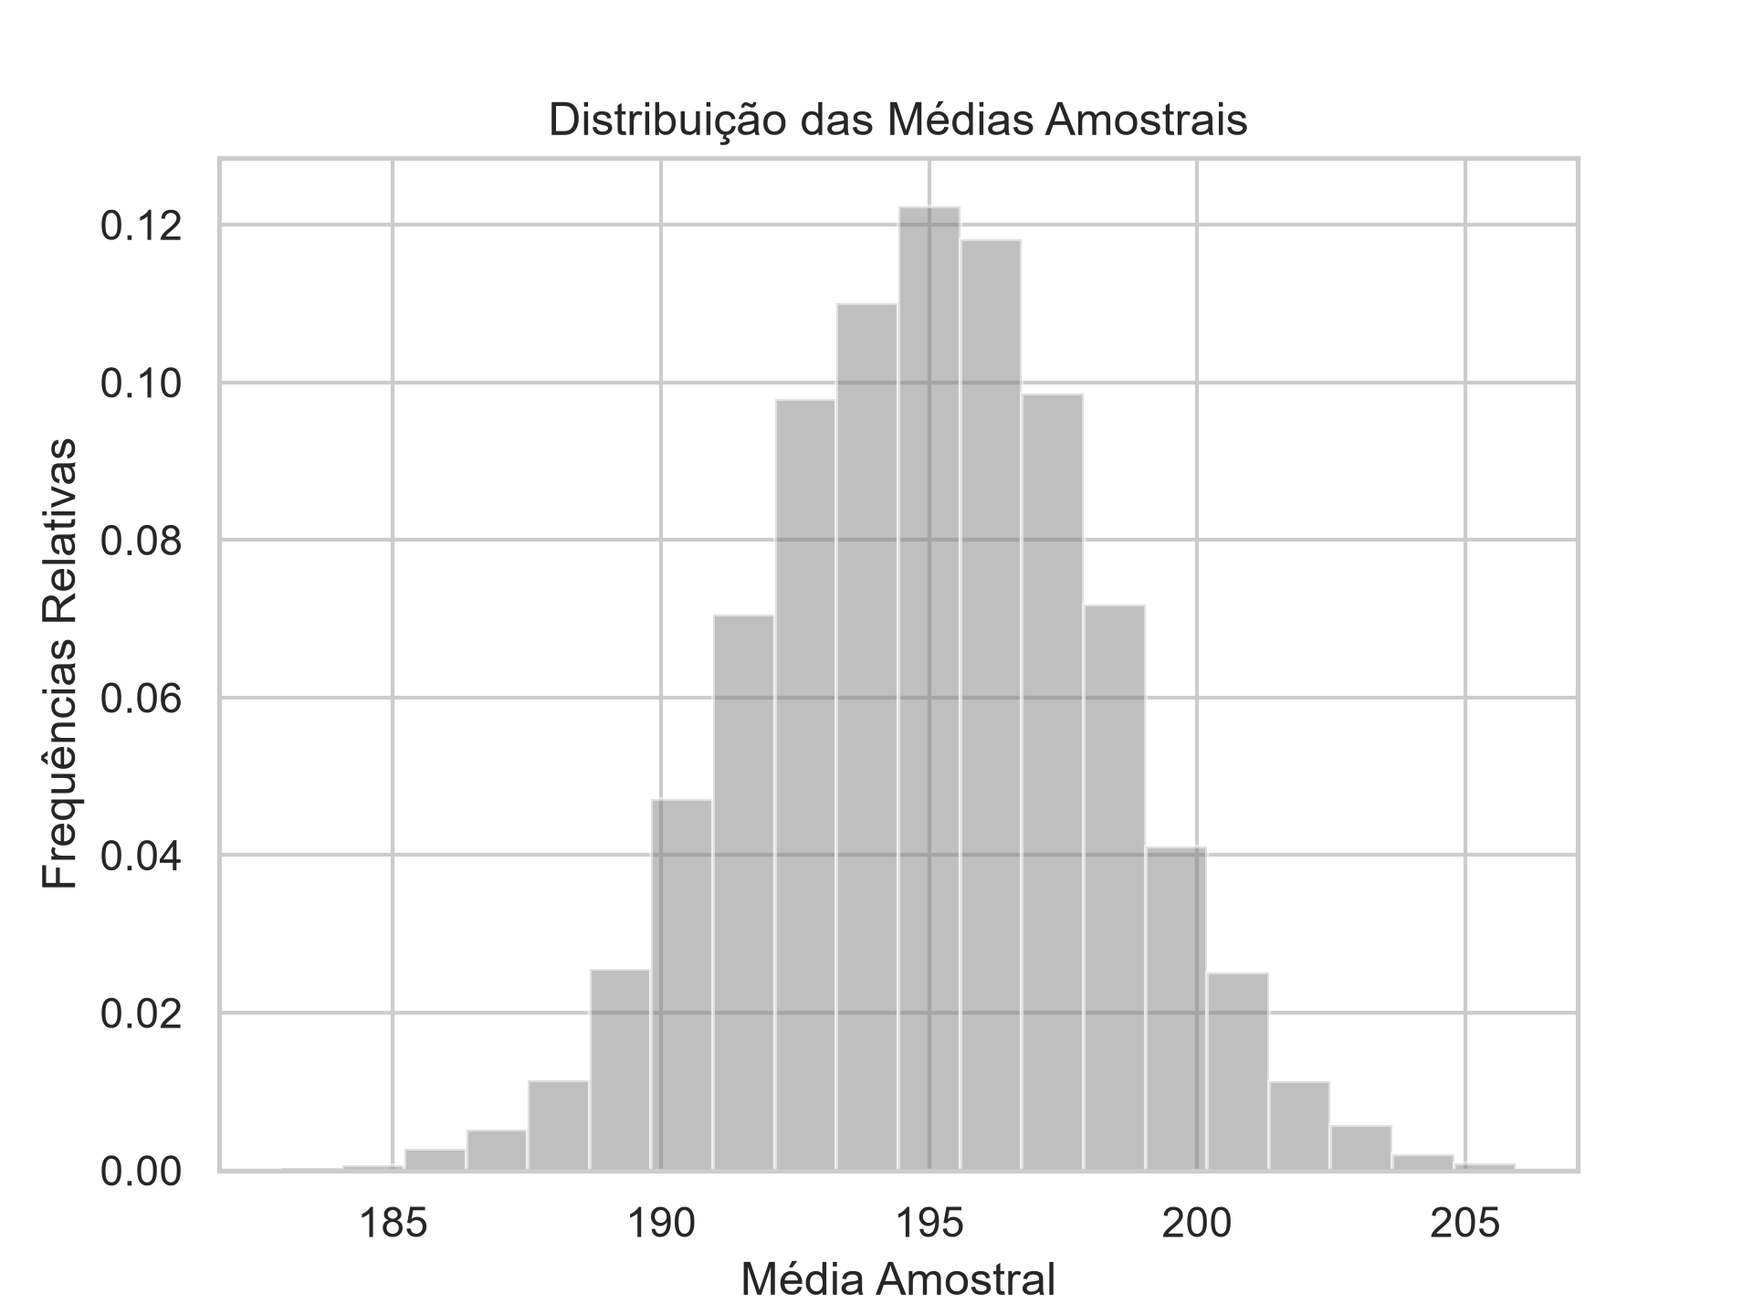
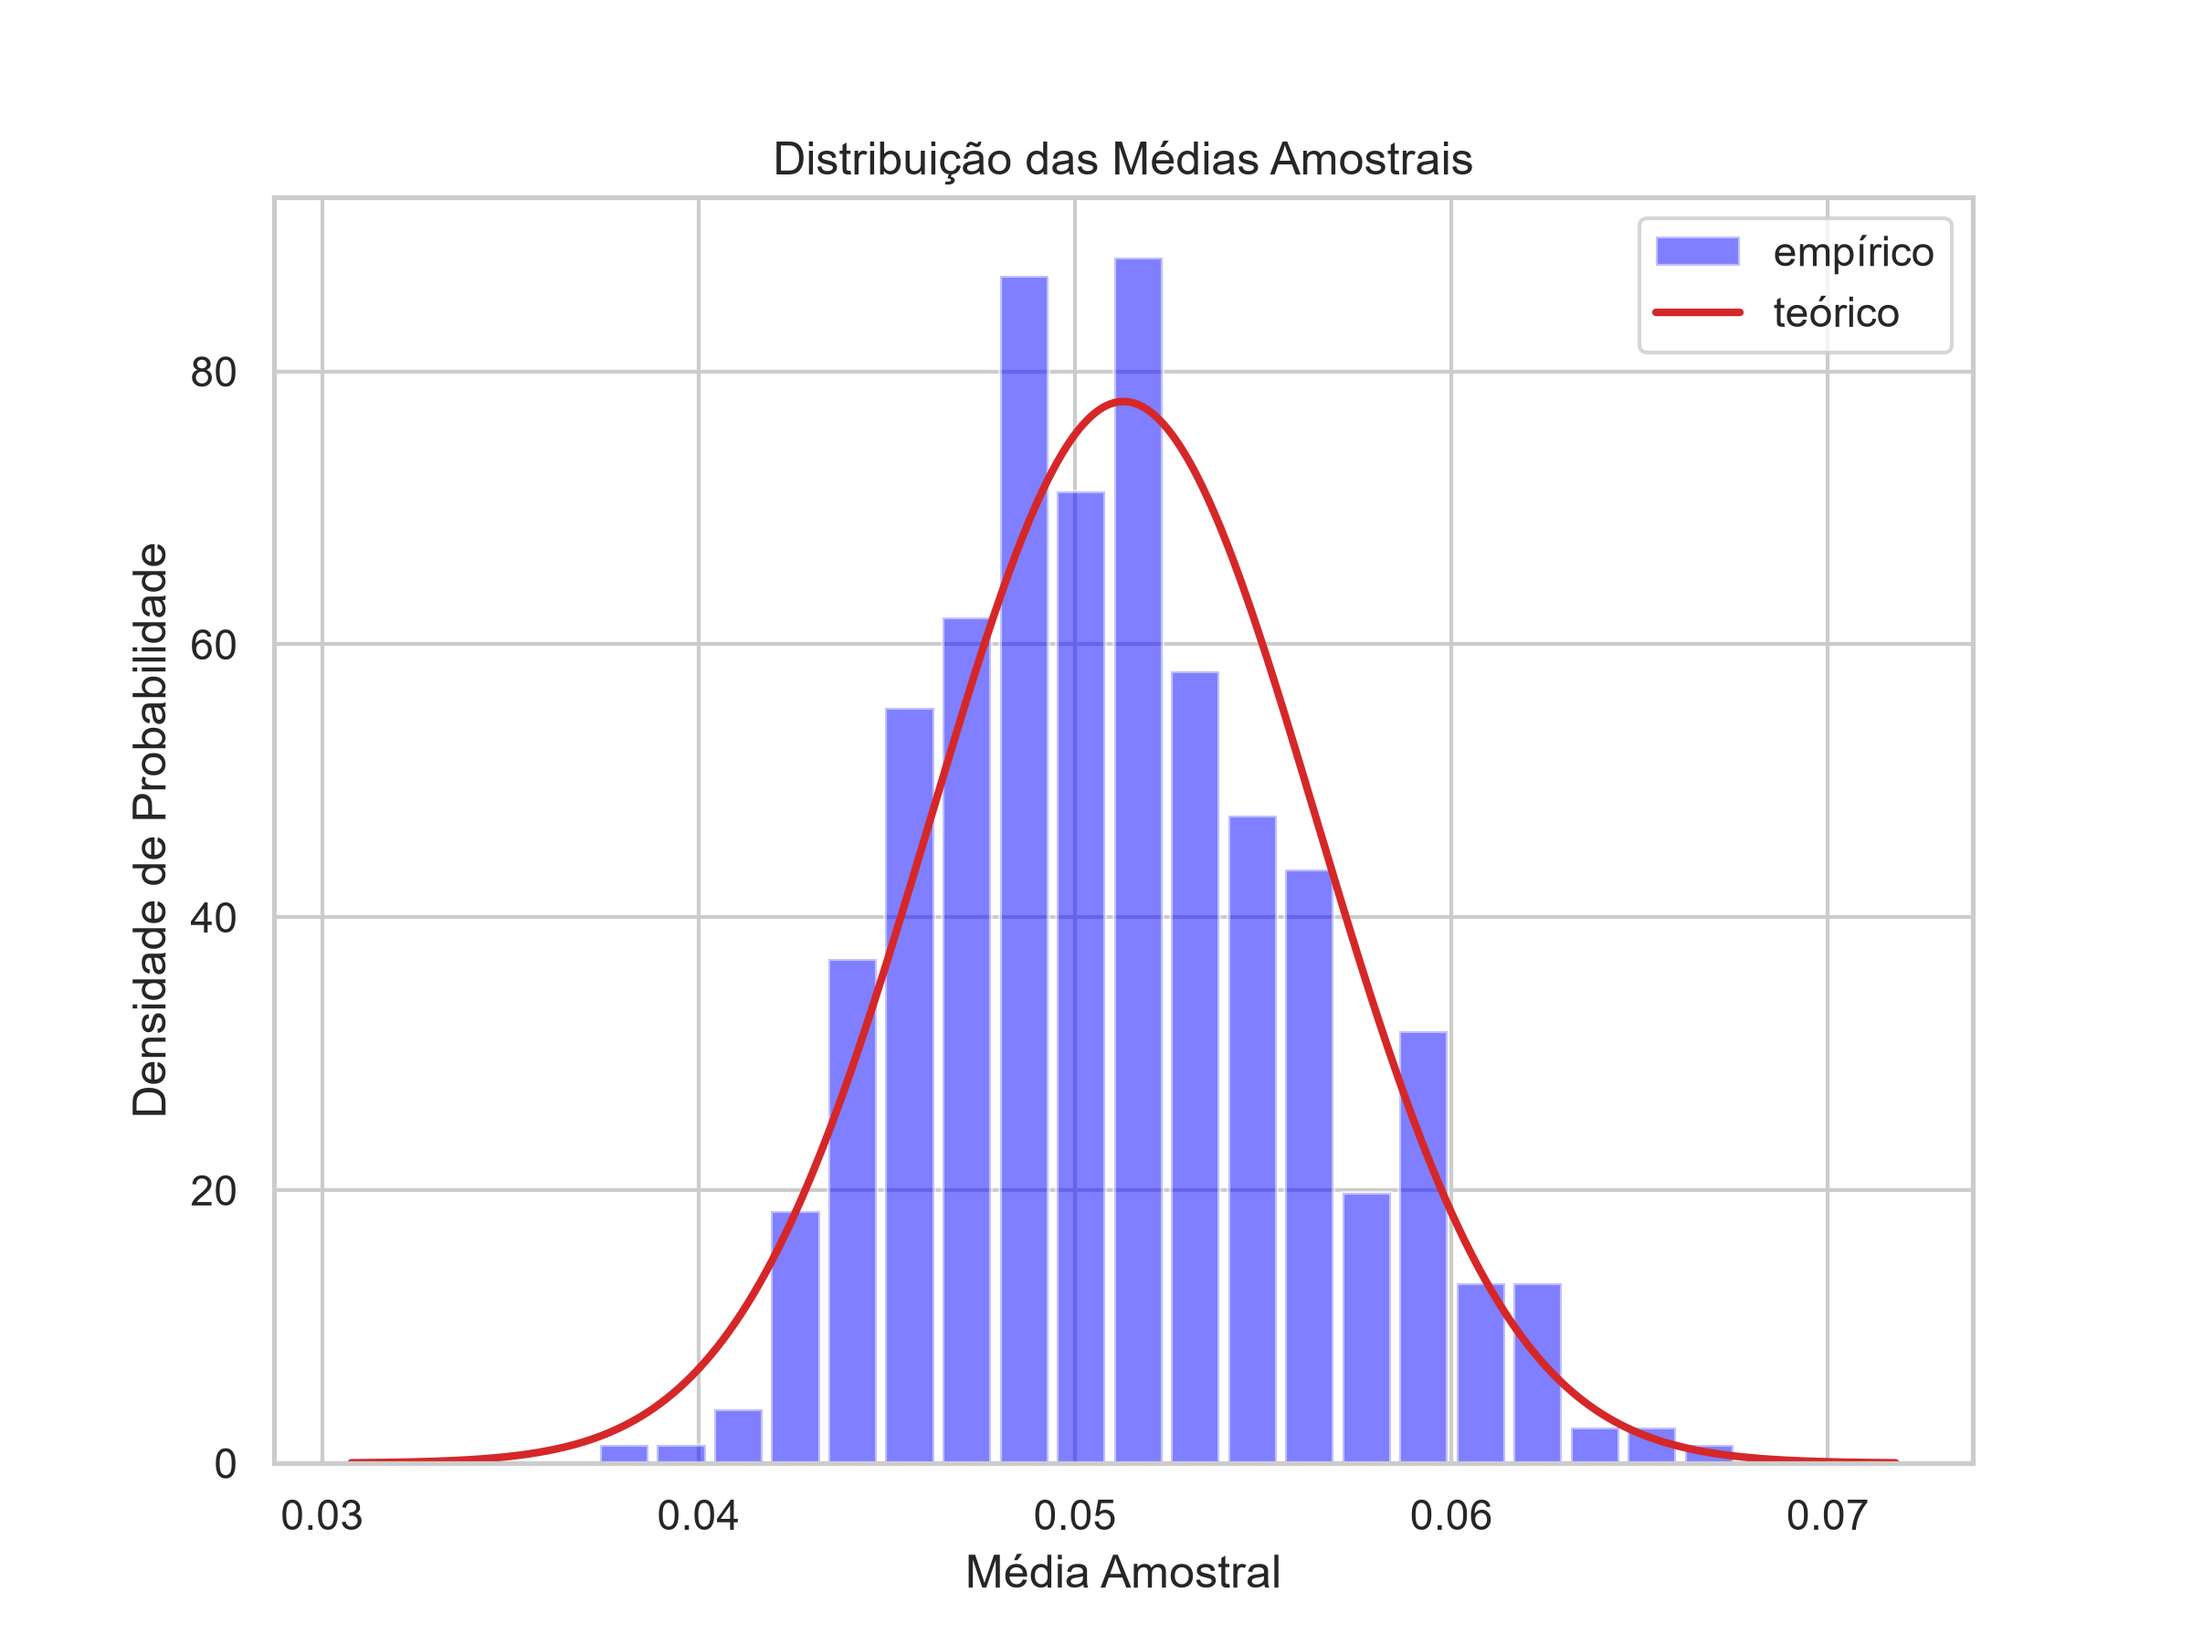
lc: 2ª versao do experimento Limite Central

diff --git a/views/view_limite_central.py b/views/view_limite_central.py
@@ -2,27 +2,28 @@ import csv
 import matplotlib.pyplot as plt
 from simulations import limite_central as lc
 
-def histograma(semente: int):
-    tab_amostral = lc.get_resultados_amostrais(semente)
-    tab_teorico = lc.get_resultados_teoricos()
+def histograma(teste_amostral: int, teste_replicacoes: int, lam: float, semente: int):
+    tab_medias = lc.get_medias(teste_amostral, teste_replicacoes, lam, semente)
+    medias_amostrais = tab_medias['medias_amostrais']
+    media_teorica = tab_medias['media_teorica']
+    medias = tab_medias['medias']
 
-    print(f"Media amostral: {tab_amostral['medias_amostrais']}")
-    print(f"Desvio amostral: {tab_amostral['desvio_amostral']}")
-    print(f"Media teorica: {tab_teorico['media_teorica']}")
-    print(f"Desvio teorico: {tab_teorico['desvio_teorico']}")
+    x, normal = lc.get_eixos(media_teorica, teste_amostral)
+
+    print(f"Media amostral: {medias_amostrais}")
+    print(f"Media teórica: {media_teorica}")
 
     with open('tables/limite_central/resultados.csv', 'w') as ficheiro:
-        writer = csv.writer(ficheiro)
-        writer.writerow(['Media amostral', 'Desvio amostral', 'Media teorica', 'Desvio teorico'])
-        writer.writerow([
-            tab_amostral['medias_amostrais'], 
-            tab_amostral['desvio_amostral'], 
-            tab_teorico['media_teorica'], 
-            tab_teorico['desvio_teorico']])
+        anota = csv.writer(ficheiro)
+        anota.writerow(['Media amostral', 'Media teórica'])
+        anota.writerow([medias_amostrais, media_teorica])
 
-    plt.hist(tab_amostral['lista_medias'], bins = 20, density = True, alpha = 0.5, color = 'grey')
-    plt.title('Distribuição das Médias Amostrais')
-    plt.xlabel('Média Amostral')
-    plt.ylabel('Frequências Relativas')
+    _, ax = plt.subplots(figsize=(8, 6))
+    ax.hist(medias, bins=20, density=True, rwidth=0.85, alpha=0.5, color="blue", label="empírico")
+    ax.plot(x, normal, color="tab:red", linewidth=2, label="teórico")
+    ax.set_title('Distribuição das Médias Amostrais')
+    ax.set_xlabel('Média Amostral')
+    ax.set_ylabel('Densidade de Probabilidade')
+    ax.legend()
     plt.savefig("figures/limite_central/histograma_tcl.png", dpi=300)
     plt.show()

diff --git a/simulations/limite_central.py b/simulations/limite_central.py
@@ -1,27 +1,23 @@
 import numpy as np
 
-TESTE_AMOSTRAL = 100
-TESTE_REPLICACOES = 10_000
-
-def get_resultados_amostrais(semente: int):
+def get_medias(teste_amostral: int, teste_replicacoes: int, lam: float, semente: int):
+    media_teorica = 1 / lam
     np.random.seed(semente)
-    sorteio = np.random.randint(140, 251, size = (TESTE_REPLICACOES, TESTE_AMOSTRAL))
-    print(sorteio.shape)
-
-    lista_medias = np.mean(sorteio, axis = 1)
-    medias_amostrais = np.mean(lista_medias)
-    desvio_amostral = np.std(lista_medias)
+    sorteio = np.random.exponential(media_teorica, size=(teste_replicacoes, teste_amostral))
+    medias = np.mean(sorteio, axis=1)
+    medias_amostrais = np.mean(medias)
 
     return {
-        'lista_medias': lista_medias,
         'medias_amostrais': medias_amostrais,
-        'desvio_amostral': desvio_amostral
+        'media_teorica': media_teorica,
+        'medias': medias
     }
 
-def get_resultados_teoricos():
-    media_teorica = (140 + 250) / 2
-    desvio_teorico = np.sqrt((((250 - 140 + 1) ** 2 - 1) / 12) / TESTE_AMOSTRAL)
-    return {
-        'media_teorica': media_teorica,
-        'desvio_teorico': desvio_teorico
-    }
+def get_eixos(media_teorica: float, teste_amostral: int):
+    desvio_padrao_teorico = media_teorica / np.sqrt(teste_amostral)
+    esquerda = media_teorica - 4 * desvio_padrao_teorico
+    direita = media_teorica + 4 * desvio_padrao_teorico
+    x = np.linspace(esquerda, direita, 500)
+    normal = (1 / (desvio_padrao_teorico * np.sqrt(2 * np.pi))) * np.exp(-(x - media_teorica) ** 2 / (2 * desvio_padrao_teorico ** 2))
+
+    return x, normal
